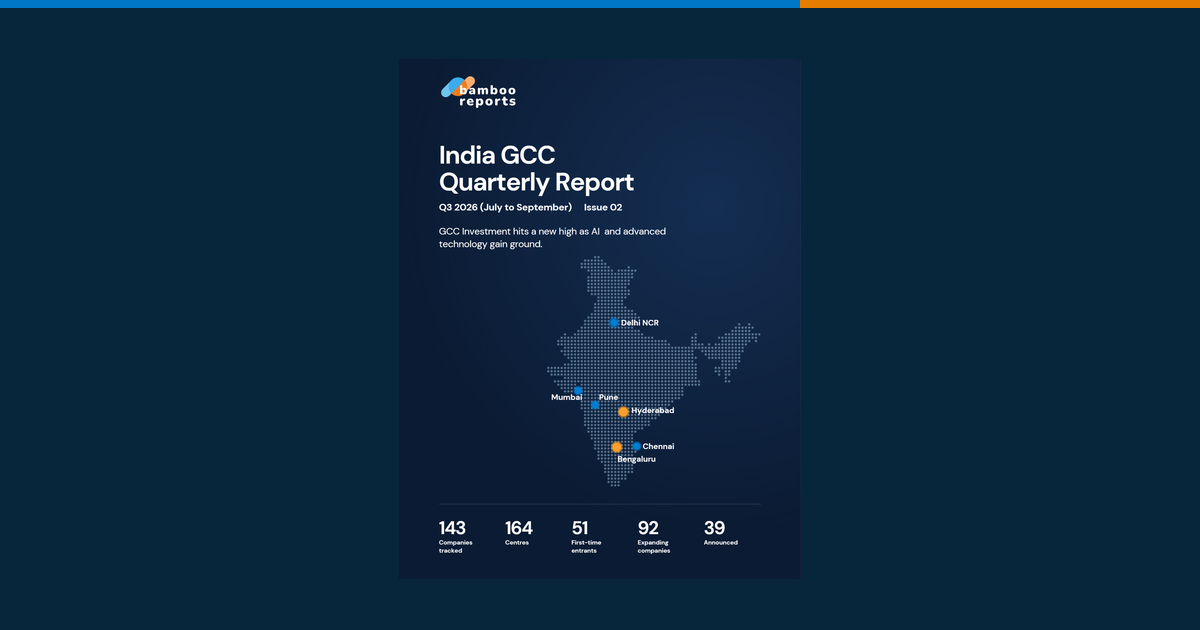
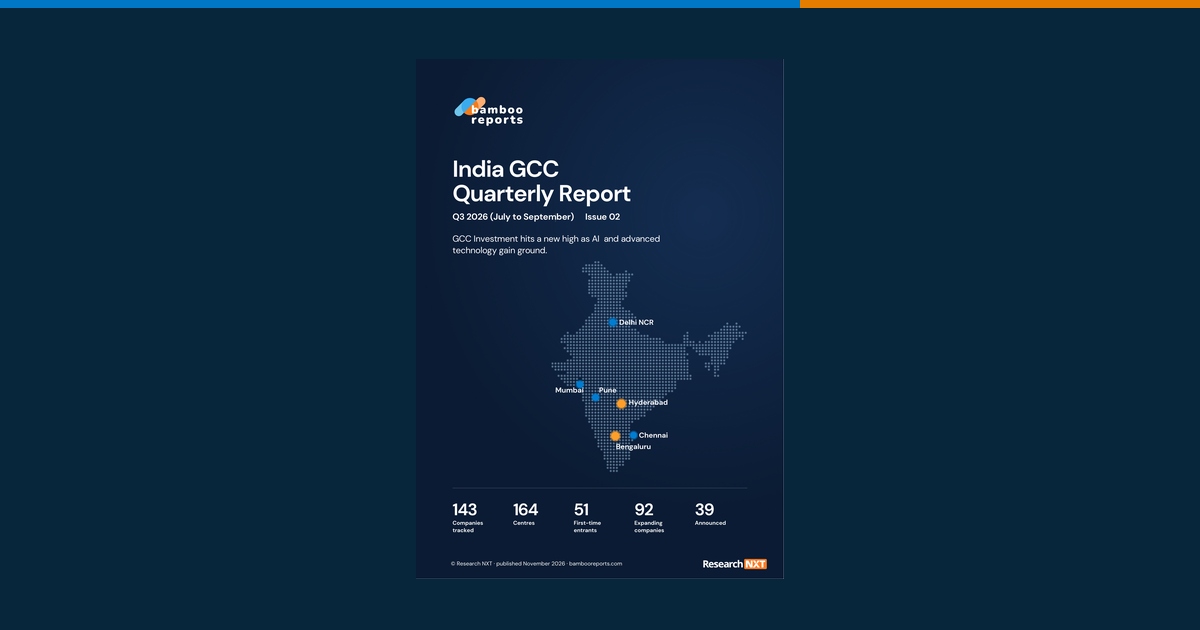
Use the updated A4 cover for the Q3 report page and share card

diff --git a/src/views/reports/IndiaGccReportQ32026.tsx b/src/views/reports/IndiaGccReportQ32026.tsx
@@ -222,8 +222,8 @@ const IndiaGccReportQ32026 = () => {
               <img
                 src={q3ReportCover.src}
                 alt="Report cover: India GCC Quarterly Report, Q3 2026, July to September, with the quarter's GCC hubs marked on a map of India"
-                width={1700}
-                height={2200}
+                width={1655}
+                height={2340}
                 loading="lazy"
                 className="w-44 justify-self-center rounded-md shadow-xl shadow-navy/25 sm:w-52 sm:justify-self-start md:w-60 lg:w-72"
               />
